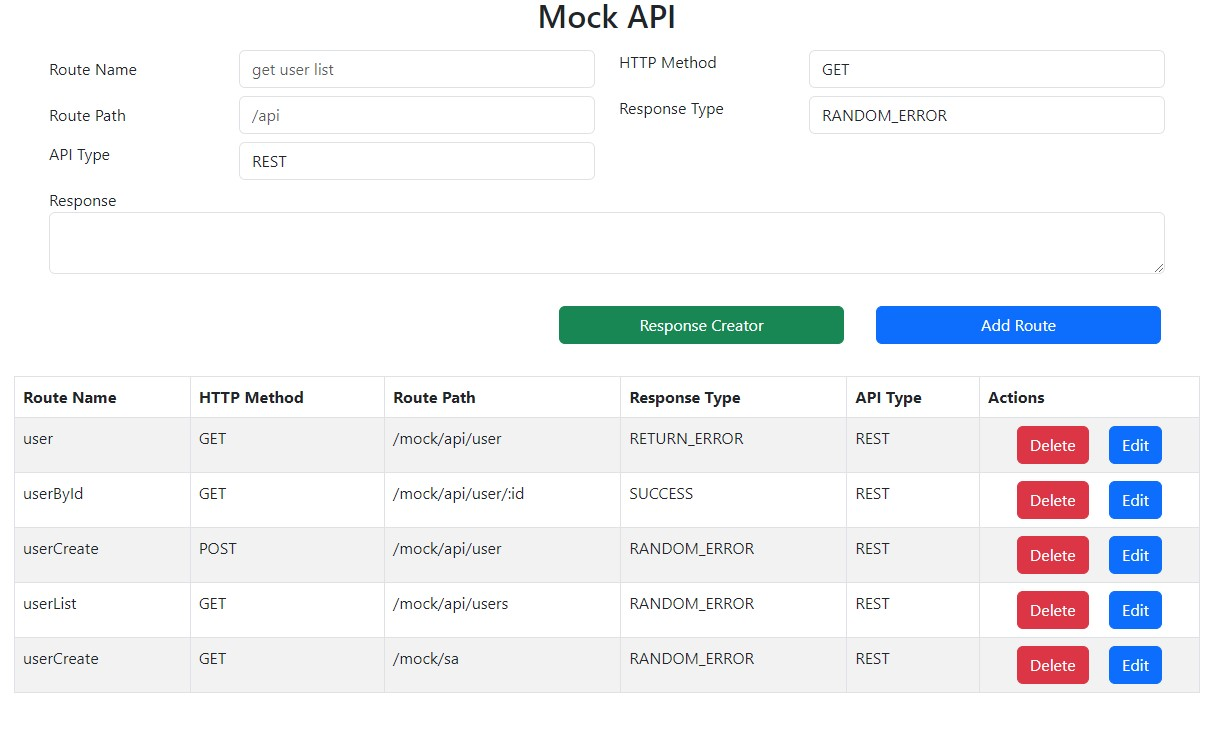
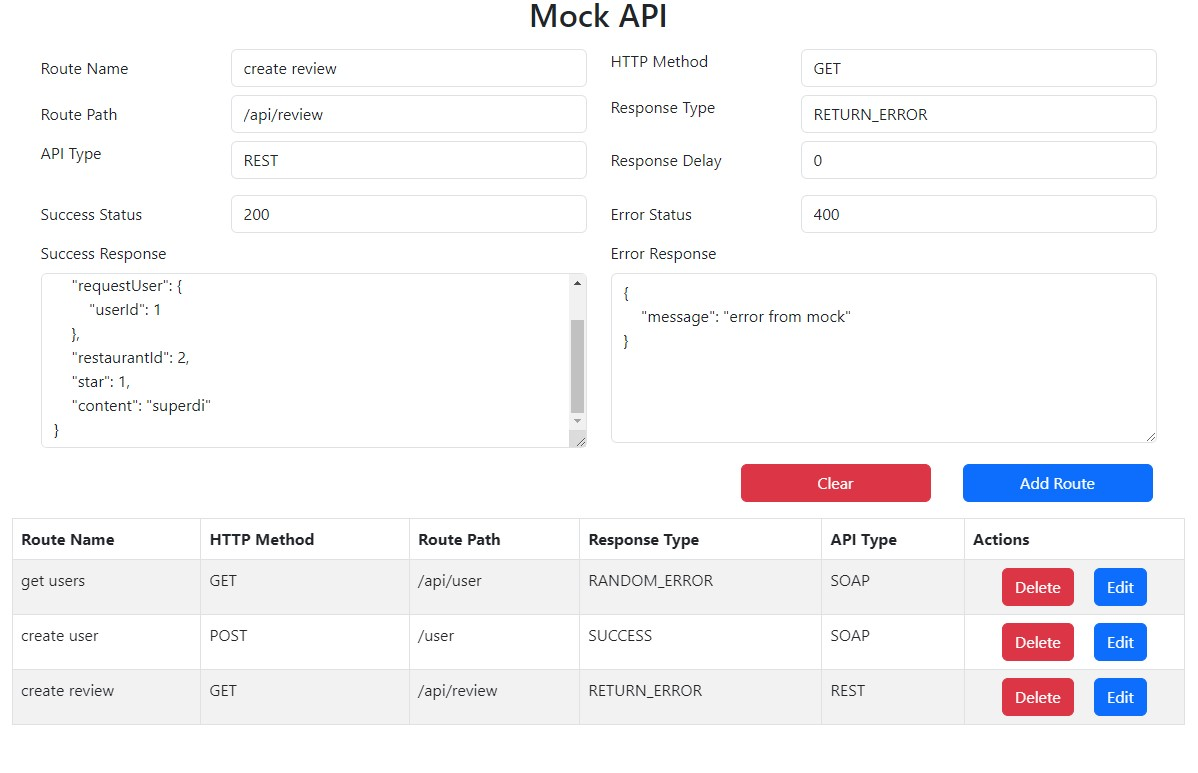
typo fix

diff --git a/public/index.html b/public/index.html
@@ -156,7 +156,7 @@
                   id="errorStatus"
                   name="errorStatus"
                   required
-                  value="200"
+                  value="400"
                   type="number"
                   class="form-control"
                 />
@@ -190,7 +190,7 @@
             Clear
           </button>
           <button type="submit" class="btn btn-primary col-md-2 mx-3">
-            Add Route
+            Save Route
           </button>
         </div>
       </form>
